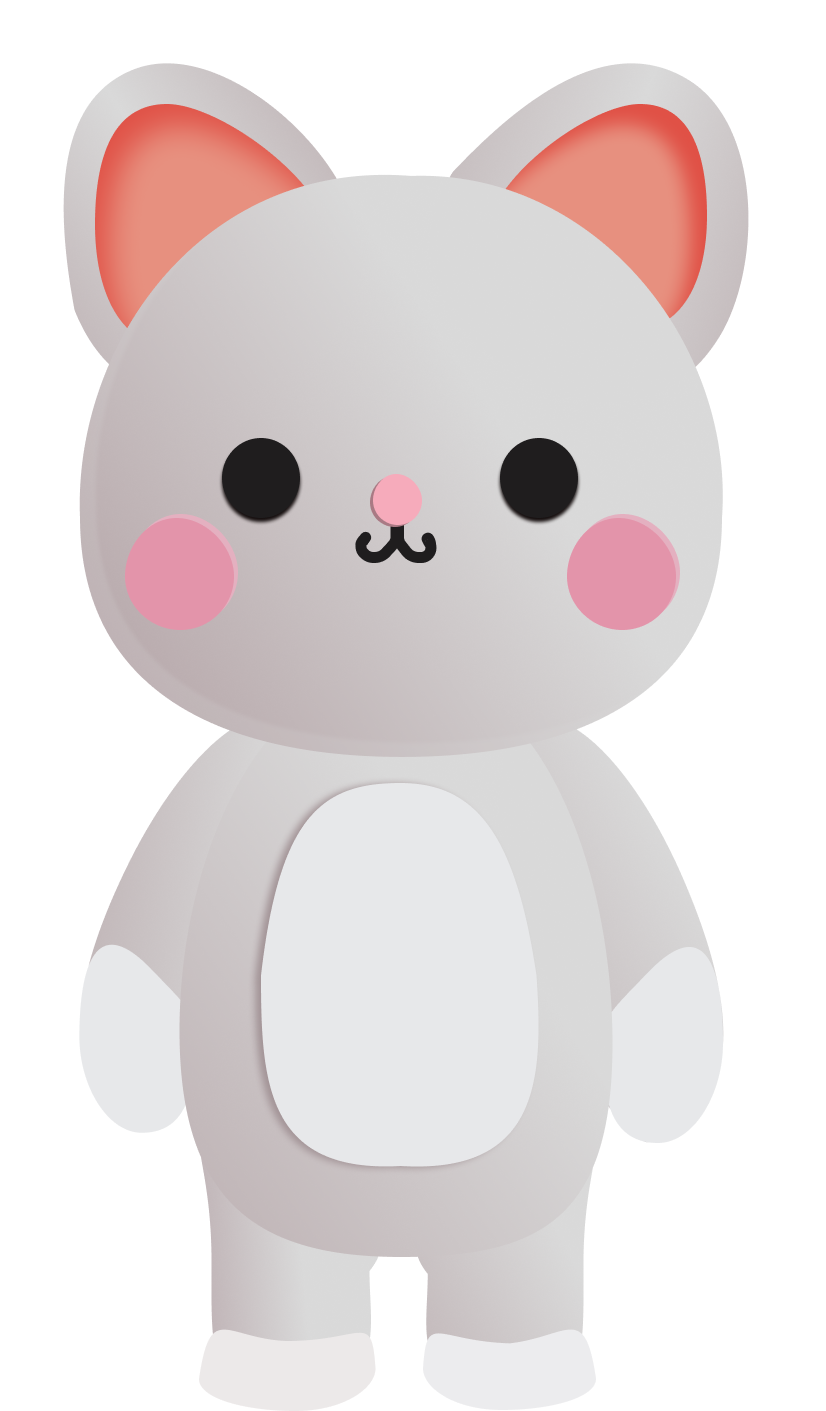
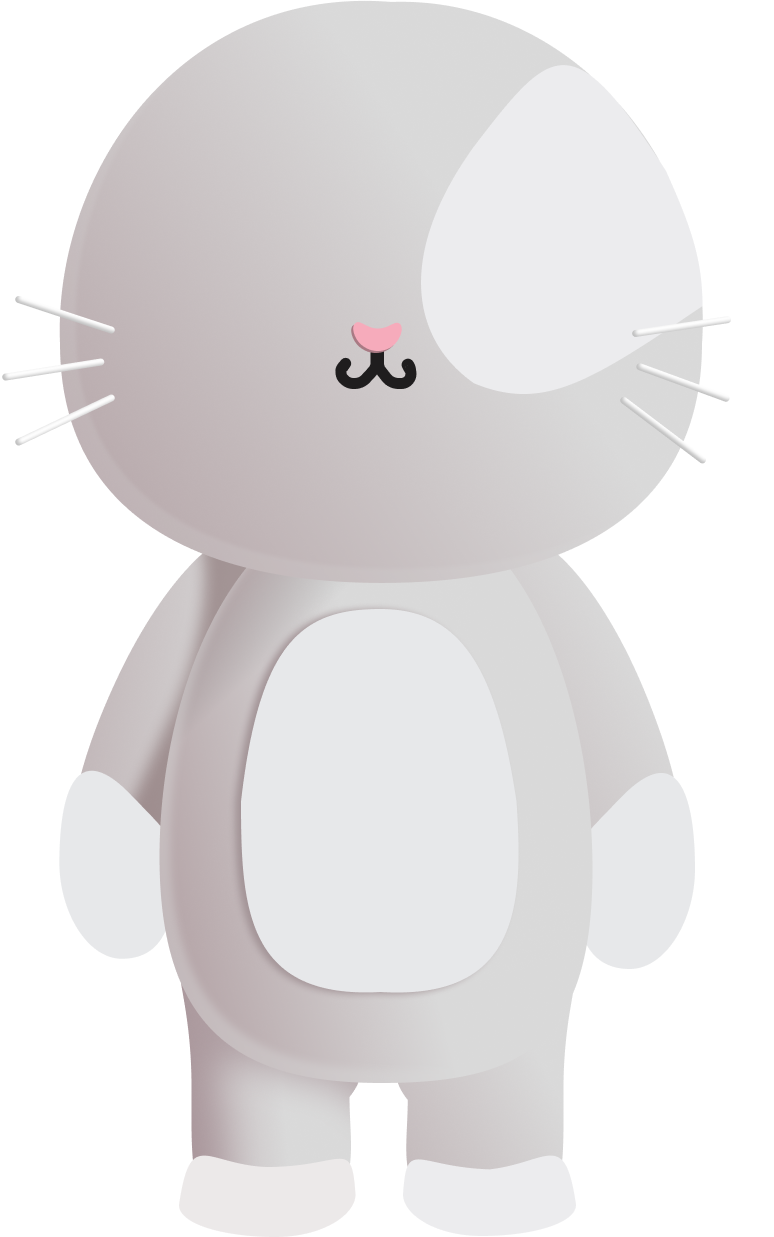
//

diff --git a/Petsitter/wwwroot/css/site.css b/Petsitter/wwwroot/css/site.css
@@ -143,23 +143,6 @@ html {
         max-width: 100%;
     }
 
-.big__pet {
-    position: absolute;
-    margin: 100px auto;
-    top: 10%;
-    left: 50%;
-    transform: translate(-50%, -50%);
-    z-index: -5;
-    height: 138vh;
-    width: auto;
-}
-
-.img__huge__animal {
-    width: 100%;
-    height: 100%;
-    object-fit: cover;
-}
-
 .text-start {
     width: 100%;
     display: flex;
@@ -1433,42 +1416,94 @@ body.light {
 .footer__pic {
 }
 
+
+/* #Animal
+================================================== */
+
+.big__pet {
+    position: absolute;
+    margin: 100px auto;
+    top: 10%;
+    left: 50%;
+    transform: translate(-50%, -50%);
+    z-index: -5;
+    height: 138vh;
+    width: auto;
+    display: flex;
+    flex-direction: column; 
+}
+
+.img__huge__animal {
+    margin-top: 120px;
+    max-height: 90%;
+    min-height: 960px;
+    object-fit: cover;
+    z-index: 1;
+}
+
+.ushki {
+    width: 60%;
+}
+
+.img__ear {
+    position: absolute;
+    top: 0;
+    height: 340px;
+    object-fit: cover;
+    z-index: 0;
+}
+
+.img__ear__2 {
+    position: absolute;
+    top: 0;
+    height: 340px;
+    object-fit: cover;
+    right: 0;
+    z-index: 0;
+}
+
 .eyes {
-    top: 20%;
+    position: absolute;
+    margin-top: 330px;
+    max-height: 95%;
     transform: translateY(-50%);
     width: 100%;
     text-align: center;
-    height: 100vh;
+    z-index: 2;
 }
 
 .eye {
-    width: 122px;
-    height: 120px;
+    width: 132px;
+    height: 130px;
     background-image: url("/Images/eye.png");
     background-size: 100% 100%;
     display: inline-block;
-    margin: 30px;
     border-radius: 50%;
     position: relative;
     overflow: hidden;
+    margin-right: 93px;
 }
 
 .ball__light {
-    width: 50px;
-    height: 50px;
+    position: absolute;
+    max-height: 10%;
+    min-height: 50px;
+    max-width: 10%;
+    min-width: 50px;
     background-image: url("/Images/ball_light.png");
     background-size: 100% 100%;
     position: absolute;
-    top: 50%;
-    left: 30%;
+    top: 20%;
+    left: 45%;
     border-radius: 50%;
     border: 15px;
     z-index: 2;
 }
 
 .ball__out {
-    width: 90px;
-    height: 105px;
+    position: absolute;
+    width: 100px;
+    height: 115px;
     background-image: url("/Images/ball_out.png");
     background-size: 100% 100%;
     position: absolute;
@@ -1480,8 +1515,9 @@ body.light {
 }
 
 .ball__inner {
-    width: 50px;
-    height: 65px;
+    position: absolute;
+    width: 60px;
+    height: 67px;
     background-image: url("/Images//ball_inner.png");
     background-size: 100% 100%;
     margin-right: 10px;
@@ -1492,7 +1528,48 @@ body.light {
     border-radius: 50%;
     border: 5px;
     z-index: 1;
+}
 
+.eye__2 {
+    position: absolute;
+    width: 132px;
+    height: 130px;
+    background-image: url("/Images/eye__2.png");
+    background-size: 100% 100%;
+    display: inline-block;
+    border-radius: 50%;
+    position: relative;
+    overflow: hidden;
+}
+
+.ball__out__2 {
+    position: absolute;
+    width: 100px;
+    height: 115px;
+    background-image: url("/Images/ball_out__2.png");
+    background-size: 100% 100%;
+    position: absolute;
+    top: 50%;
+    left: 50%;
+    transform: translate(-50%,-50%);
+    border-radius: 50%;
+    border: 15px;
+}
+
+.ball__inner__2 {
+    position: absolute;
+    width: 60px;
+    height: 67px;
+    background-image: url("/Images//ball_inner__2.png");
+    background-size: 100% 100%;
+    margin-right: 10px;
+    position: absolute;
+    top: 50%;
+    left: 50%;
+    transform: translate(-50%,-50%);
+    border-radius: 50%;
+    border: 5px;
+    z-index: 1;
 }
 /* #Boxes service type
 ================================================== */

diff --git a/Petsitter/Controllers/BookingController.cs b/Petsitter/Controllers/BookingController.cs
@@ -350,7 +350,7 @@ namespace Petsitter.Controllers
             // Show booking page again.
             return View(bookingForm);
         }
-        //get available dates of sitter as events for booking form 
+        //Get available dates of sitter as events for booking form 
         public JsonResult GetEvents(int sitterID)
         {
 
@@ -374,9 +374,9 @@ namespace Petsitter.Controllers
                     events.Add(new
                     {
                         title = "Available",
-                        start = date.ToString("yyyy-MM-dd"),
+                        start = date.ToString("yyyy-MM-ddTHH:mm:ss"),
+                        end = date.AddHours(1).ToString("yyyy-MM-ddTHH:mm:ss"),
                         display = "background",
-
                         color = "green"
                     });
                 }
@@ -387,6 +387,7 @@ namespace Petsitter.Controllers
 
 
         }
+
 
         [Authorize]
         public IActionResult ConfirmBooking(int bookingId)
